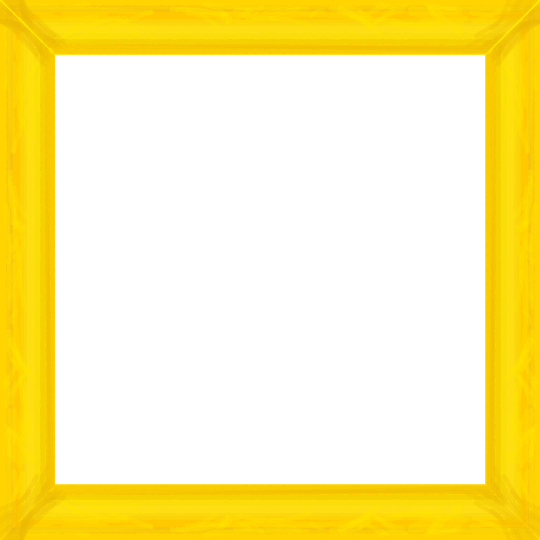
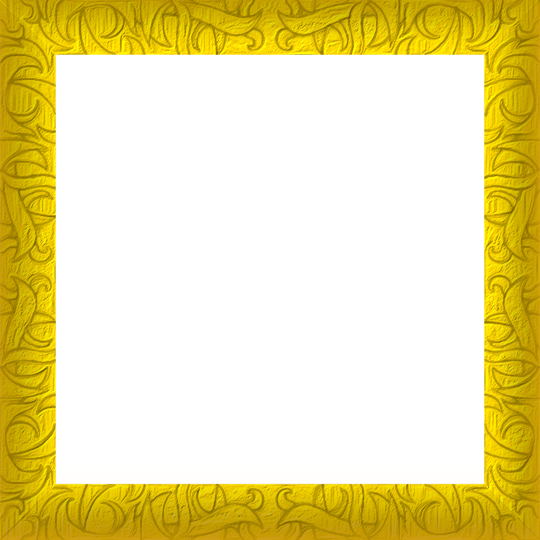
fix menu

diff --git a/style.css b/style.css
@@ -24,16 +24,6 @@ html:-webkit-scrollbar{
 ╚██████╗███████╗██║  ██║███████║███████║███████╗███████║    ███████║███████╗╚██████╗   ██║   ██║╚██████╔╝██║ ╚████║
  ╚═════╝╚══════╝╚═╝  ╚═╝╚══════╝╚══════╝╚══════╝╚══════╝    ╚══════╝╚══════╝ ╚═════╝   ╚═╝   ╚═╝ ╚═════╝ ╚═╝  ╚═══╝
 */
-.div-contain{
-    height: calc(100% - 100px);
-    width: 80%;
-    max-width: 946px;
-    background-color: darkgray;
-    border: 50px solid transparent;
-    border-image: url("content/borderPattern.png") 50;
-
-}
-
 .responsiveImage{
     width: 100%;
     max-width: inherit;
@@ -44,11 +34,23 @@ html:-webkit-scrollbar{
 .flex{
     display: flex;
     justify-content: center;
-    align-content: center;
+    align-items: center;
 }
 
 .text-center{
     text-align: center;
+}
+
+.text-large{
+    font-size: 2em;
+}
+
+.text-nodecor{
+    text-decoration: none;
+}
+
+.text-color-white{
+    color: white;
 }
 
 .mnu-btn{
@@ -77,6 +79,7 @@ html:-webkit-scrollbar{
     border: 0px;
     border-radius: 5px;
 }
+
 .mnu-btn_burger::before, 
 .mnu-btn_burger::after{
     content: ''; 
@@ -93,6 +96,12 @@ html:-webkit-scrollbar{
 .mnu-btn_burger::after{
     transform: translateY(10px)
 }
+
+.pos-center-absolute{
+    position: absolute;
+    bottom: 50px;
+}
+
 .open{
     position: absolute;
     background-color: white;
@@ -100,6 +109,17 @@ html:-webkit-scrollbar{
     margin-bottom: 10px;
     width: 100%;
     height: 100%;
+    transition: height 1s, background-color 1s;
+    z-index: 4;
+}
+
+.close{
+    position: absolute;
+    background-color: transparent;
+    margin-top: 0px;
+    margin-bottom: 10px;
+    width: 100%;
+    height: 50px;
     transition: height 1s, background-color 1s;
     z-index: 4;
 }
@@ -151,7 +171,7 @@ html:-webkit-scrollbar{
 
 .scroll-snap{
     scroll-snap-type: y mandatory;
-    scroll-padding: auto;
+
 }
 .scroll-snap > * {
     scroll-snap-align: center;
@@ -349,19 +369,6 @@ form textarea{
 ╚═╝╚═════╝     ╚══════╝╚══════╝ ╚═════╝   ╚═╝   ╚═╝ ╚═════╝ ╚═╝  ╚═══╝
 */
 
-#showcaseUl{
-    width: 100%;
-    height: 100%;
-    display: grid;
-    grid-auto-flow: row;
-    grid-auto-rows: 100%;
-    overflow-y: auto;
-    overscroll-behavior: none;
-    justify-content: center;
-    align-items: center;
-    scrollbar-width: none;
-}
-
 #headerImg{
     position: absolute;
     top: 0;
@@ -373,6 +380,7 @@ form textarea{
     position: relative;
     top: 50px;
     font-family: monospace;
+    max-width: 820px;
     font-size: xx-large;
     text-align: center;
     color: white;
@@ -380,11 +388,10 @@ form textarea{
 }
 
 
-#goToProjects{
-    top: 540px;
-    position: absolute;
+#seeProjects{
+    position: relative;
     width: 100px;
-    background: white;
+    background: var(--gold);
     padding: 10px;
     border: 0px;
     border-radius: 10px 0 10px 0;
@@ -394,9 +401,10 @@ form textarea{
     text-decoration: none;
     text-align: center;
     transition: .5s;
+    font-weight: bold;
 }
 
-#goToProjects:hover{
+#seeProjects:hover{
     transition: .5s;
     width: 110px;
     background-color: var(--gGreen);
@@ -567,10 +575,6 @@ form textarea{
         margin: auto;
 
     }
-    .div-contain{
-        width: 100%;
-        height: 946px;
-    }
 }
 
 @media (min-width: 1024px){
@@ -631,17 +635,7 @@ form textarea{
     .open{
         display: none;
     }
-
-    #showcaseUl{
-        width: inherit;
-        height: inherit;
-        display: grid;
-        grid-auto-flow: column;
-        grid-auto-columns: 100%;
-        align-items: center;
-        overflow-x: auto;
-        overscroll-behavior-inline: contain;
-        scroll-behavior: smooth;
-        scrollbar-width: thin;
+    .close{
+        display: none;
     }
 }

diff --git a/index.html b/index.html
@@ -29,7 +29,7 @@
     <div id="menu">
         <div id="hideli">
             <ul>
-                <li><a href="#main"><img src="content/home.svg" alt="home icon"><span class="text-center">Home</span></a></li>
+                <li><img src="content/home.svg" alt="home icon"><span class="text-center">Home</span></li>
                 <li><a href="contact.html"><img src="content/contact.svg" alt="contact icon"><span class="text-center">Contact</span></a></li>
                 <li><a href="aboutme.html"><img src="content/about.svg" alt="about icon"><span class="text-center">About</span></a></li>
                 <li><a href="https://www.youtube.com/channel/UC5dQA0jgp4UpfdWrmfvPFMg"><img src="content/youtubeIco.svg" alt="YoutubeIcon"><span class="text-center">Youtube</span></a></li>
@@ -54,27 +54,14 @@
 
     <section>
         <img class="responsiveImage" id="headerImg" src="content/neth.svg" alt="mylogo">
-
-        <a href="#home-2nd" id="goToProjects">Projects</a>
-        <p id="introParagraph">Hi, I am a design & programming student</p>
+        <p id="introParagraph">Hi, I am a design & programming student: everything here was all created by me</p>
+        <a href="#home-2nd" class="flex pos-center-absolute text-large text-nodecor"><span class="text-color-white">check out my projects</span></a>
         <div id="sun"></div>
         <img class="responsiveImage" id="gif-thing" src="content/weblogo.gif" alt="lazy logo" style="max-width: 400px;">
     </section>
 
     <section id="home-2nd">
-        <div class="div-contain flex">
-                <ul class="no_padding ul-nodecor no_margin scroll-snap" id="showcaseUl">
-                    <li class="shape-square "></li>
-                    <li class="shape-square "></li>
-                    <li class="shape-square "></li>
-                    <li class="shape-square "></li>
-                    <li class="shape-square "></li>
-                    <li class="shape-square "></li>
-                    <li class="shape-square "></li>
-                    <li class="shape-square "></li>
-                    <li class="shape-square "></li>
-                </ul>
-        </div>
+        <button id="seeProjects" onclick="">Projects</button>
     </section>
 
     <footer>

diff --git a/JS/homepage.js b/JS/homepage.js
@@ -4,7 +4,10 @@ window.addEventListener('scroll', function() {
     headPos = window.scrollY;
     visi();
     transitionNight();
+    closeHamburger();
 });
+
+window.addEventListener("load", addCloseToHamburger);
 
 // goBackUp button;
 function visi(){
@@ -25,16 +28,27 @@ let menuOpen = false;
 function menuBtn() {
     if (!menuOpen) {
         document.querySelector("#menu").classList.add("open");
+        document.querySelector("#menu").classList.replace("close", "open");
         menuOpen = true;
         document.querySelector("#hideli").id = "showli";
-        document.querySelector("#title-image").style.visibility = "hidden";
     } else {
-        document.querySelector("#menu").classList.remove("open");
+        document.querySelector("#menu").classList.replace("open", "close");
         menuOpen = false;
         document.querySelector("#showli").id = "hideli";
-        document.querySelector("#title-image").style.visibility = "visible";
     };
 };
+
+function addCloseToHamburger(){
+    document.querySelector("#menu").classList.add("close");
+}
+
+function closeHamburger(){
+    if (menuOpen === true && headPos > 100){
+        document.querySelector("#menu").classList.replace("open", "close");
+        menuOpen = false;
+        document.querySelector("#showli").id = "hideli";
+    }
+}
 
 function transitionNight(){
     if (headPos > 210){
